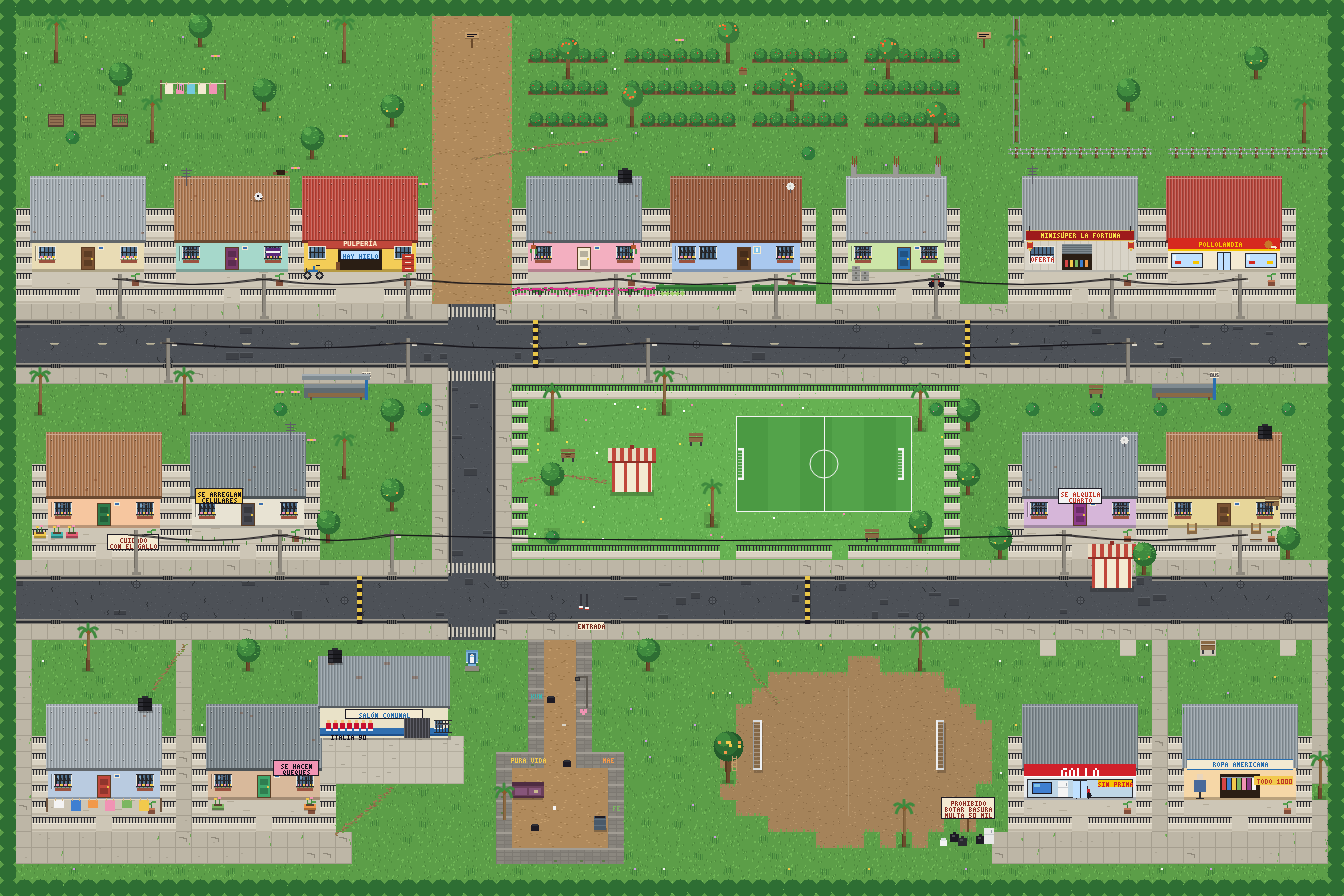
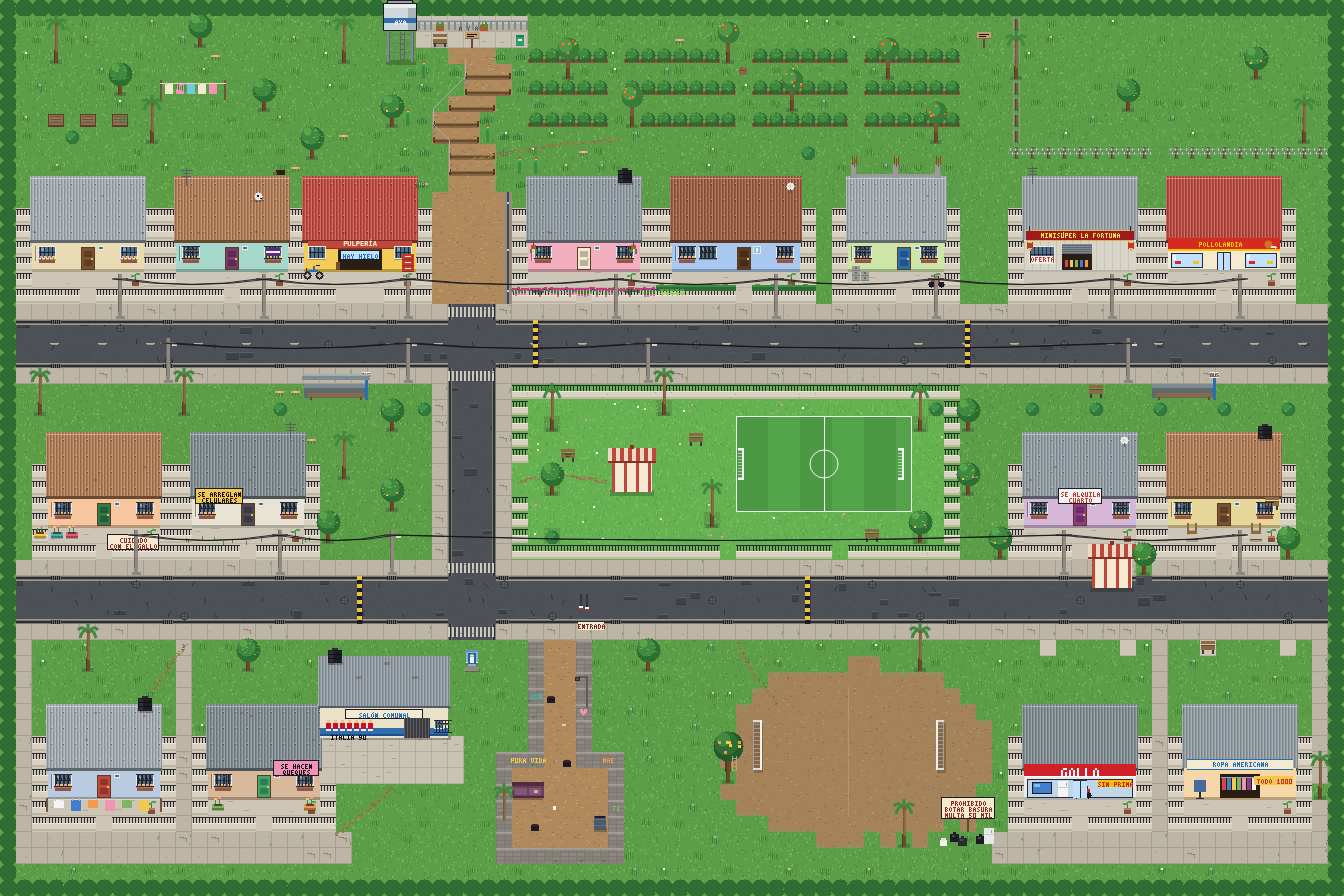
Trillo al mirador: subida con gradas, tanque del AyA y luciérnagas
- Camino sinuoso de 3 tiles entre monte, gradas de troncos y pasamanos
- Caño de concreto en el tramo entre casas
- Tanque del AyA como referencia visible desde la calle, con rincón para mirar
- Mirador con plataforma, baranda, banca y basurero
- Luciérnagas de noche y viento en la cima

Claude-Session: https://claude.ai/code/session_015uL8vQXmkc6XtRAtwtpQ6X

Changed region(s): [[0.2812, 0.0, 0.4062, 0.3438]]

diff --git a/Mi_Barrio.html b/Mi_Barrio.html
@@ -501,7 +501,7 @@ function drawTile(g,m,x,y){const t=ti(m,x,y),X=x*T,Y=y*T,r=(a,b)=>hsh(x*17+a,y*3
   case 1:drawRoad(g,m,x,y,X,Y,r);break;
   case 2:drawSidewalk(g,m,x,y,X,Y,r);break;
   case 16:side();R(g,'rgba(0,0,0,.25)',X+4,Y+12,9,3);R(g,'#8f8a80',X+6,Y+6,4,9);break;
-  case 6:R(g,'#b08a5c',X,Y,T,T);for(let i=0;i<6;i++)R(g,r(i,7)<.5?'#9c7749':'#c49d6c',X+((r(i,8)*15)|0),Y+((r(i,9)*15)|0),2,1);if(x===27||x===31)for(let i=0;i<4;i++)R(g,'#6fb556',X+(x===27?((r(i,2)*4)|0):12+((r(i,3)*4)|0)),Y+((r(i,4)*15)|0),1,2);break;
+  case 6:R(g,'#b08a5c',X,Y,T,T);for(let i=0;i<6;i++)R(g,r(i,7)<.5?'#9c7749':'#c49d6c',X+((r(i,8)*15)|0),Y+((r(i,9)*15)|0),2,1);{const gr=(a,b)=>{const v=ti(m,a,b);return v===0||v===5||v===7};if(gr(x-1,y))for(let i=0;i<5;i++)R(g,'#6fb556',X+((r(i,2)*4)|0),Y+((r(i,4)*15)|0),1,2);if(gr(x+1,y))for(let i=0;i<5;i++)R(g,'#6fb556',X+12+((r(i,3)*4)|0),Y+((r(i,5)*15)|0),1,2);if(r(6,6)<.2){R(g,'#8f8a80',X+((r(7,7)*11)|0)+2,Y+((r(8,8)*11)|0)+2,3,2);R(g,'#b3ad9e',X+((r(7,7)*11)|0)+2,Y+((r(8,8)*11)|0)+2,2,1)}}break;
   case 8:grass('#66b152','#5aa047','#78c262');if(r(5,5)<.18)R(g,pick2(r(6,6),['#f7e04b','#f28ab2','#ffffff']),X+((r(7,7)*13)|0)+1,Y+((r(8,8)*13)|0)+1,2,2);break;
   case 15:R(g,(x>>1)%2?'#4b9a43':'#53a34a',X,Y,T,T);break;
   case 14:R(g,'#cdc6b6',X,Y,T,T);R(g,'#bdb5a3',X,Y+T-1,T,1);if(r(1,2)<.35)R(g,'#b3ab99',X+3,Y+((r(2,1)*12)|0),((r(3,3)*8)|0)+2,1);break;
@@ -688,7 +688,7 @@ function drawBigMap(){const cvs=$('#bigmap');if(!cvs)return;if(curZone()!=='barr
  const txt=(t,x,y,sz,col)=>{g.font='bold '+sz+'px monospace';g.textAlign='center';g.textBaseline='middle';g.lineJoin='round';g.lineWidth=3;g.strokeStyle='#14101c';g.strokeText(t,x,y);g.fillStyle=col||'#f4ead2';g.fillText(t,x,y)};
  for(const b of BUILD){const nm=BM_NAMES[b.id]||(BM_OWN[b.id]?N(BM_OWN[b.id]).replace(/^(Don|Doña) /,''):null);if(!nm)continue;txt(nm,(b.x+b.w/2)*s,b.y*s-5,9,b.id==='casa_jugador'?'#f2c94c':b.id==='pulperia'?'#f7e04b':'#f4ead2')}
  txt('Parque',45.5*s,25.2*s,9,'#d8f0c8');txt('Cancha',51.5*s,32.4*s,8,'#d8f0c8');txt('Parada',21*s,24.8*s,8,'#bfe0ff');txt('Kiosco',39.5*s,31.6*s,8,'#ffd0c8');txt('Huerta',6*s,6.6*s,8,'#cfe6a8');
- txt('Calle Principal',9*s,21.6*s,8,'#e8c547');txt('Calle del Sur',9*s,37.6*s,8,'#e8c547');txt('Trillo',29.5*s,6*s,8,'#e0c8a0');txt('Parada Este',74*s,24.8*s,8,'#bfe0ff');txt('La entrada',34.5*s,45*s,8,'#f2994a');txt('Salón comunal',24*s,40.6*s,8,'#bfe0ff');txt('La plaza',52.5*s,42.4*s,8,'#e0c8a0');txt('Cafetal',46*s,1.6*s,8,'#cfe6a8');txt('Potrero',73*s,1.6*s,8,'#cfe6a8');txt('Alameda',11*s,54.4*s,8,'#e0c8a0');
+ txt('Calle Principal',9*s,21.6*s,8,'#e8c547');txt('Calle del Sur',9*s,37.6*s,8,'#e8c547');txt('Trillo',29.5*s,8.6*s,8,'#e0c8a0');txt('Mirador',29.5*s,3.4*s,8,'#ffe6a8');txt('Parada Este',74*s,24.8*s,8,'#bfe0ff');txt('La entrada',34.5*s,45*s,8,'#f2994a');txt('Salón comunal',24*s,40.6*s,8,'#bfe0ff');txt('La plaza',52.5*s,42.4*s,8,'#e0c8a0');txt('Cafetal',46*s,1.6*s,8,'#cfe6a8');txt('Potrero',73*s,1.6*s,8,'#cfe6a8');txt('Alameda',11*s,54.4*s,8,'#e0c8a0');
  const tg=mmTargets();for(const t of tg){const p=mmTo(t.mp,t.x,t.y,s);if(!p)continue;mmDot(g,p[0],p[1],t.c,t.r+1.6)}
  for(const id of['ariana','nicolas','matias','papa','mama','rosa']){const n=NPC[id],p=n&&mmTo(n.map,n.x,n.y,s);if(p)txt(N(id).replace(/^(Don|Doña) /,''),p[0],p[1]-9,8,'#fff')}
  const pp=mmTo(P.map,P.x,P.y,s);if(pp){g.save();g.translate(pp[0],pp[1]);g.scale(1.5,1.5);g.translate(-pp[0],-pp[1]);mmPlayer(g,pp[0],pp[1]);g.restore();txt('Vos',pp[0],pp[1]-14,9,'#fff')}}
@@ -5011,6 +5011,11 @@ const HOOD={casa_extra3:'Casa de los Solano',casa_extra4:'Casa de Doña Fela',ca
 // ---------- trazado: cafetal, potrero, salón comunal, gruta, plaza de tierra y alamedas ----------
 const SALON={x:20,y:41,w:8,h:5},GRUTA={x:29,y:41},LOTE={x0:41,x1:61,y0:41,y1:53},CANCHA={x0:47,x1:58,y0:43,y1:50};
 function vidaCarve(m){const W=m.w,S1=(x,y,t,s)=>setT(m,x,y,t,s);
+ // El trillo: entre las casas sigue ancho; arriba se angosta y serpentea hasta el mirador
+ for(let y=1;y<=11;y++)for(let x=26;x<=32;x++)if(ti(m,x,y)===6)S1(x,y,0,0);
+ for(let y=3;y<=11;y++){const c=TRILLO_CX[y];for(let x=c-1;x<=c+1;x++)S1(x,y,6,0)}
+ for(let x=26;x<=32;x++){S1(x,2,19,0);S1(x,1,19,1)}S1(26,2,19,1);S1(32,2,19,1);m.s[2*W+27]=1;
+ for(let y=2;y<=3;y++)for(let x=TANQUE.x;x<TANQUE.x+2;x++)S1(x,y,0,1);
  // Cafetal que sube hacia el mirador: hileras de matas con calles entre ellas
  for(const y of[3,5,7])for(let x=33;x<=59;x++){if([38,46,53].includes(x)||ti(m,x,y)===5)continue;S1(x,y,18,1)}
  // Potrero con cerca de alambre de púas y un portillo
@@ -5030,6 +5035,7 @@ function vidaCarve(m){const W=m.w,S1=(x,y,t,s)=>setT(m,x,y,t,s);
  for(const[x,y]of[[74,33],[78,33],[58,17]])m.s[y*W+x]=1;
  m.lights.push({x:GRUTA.x*T+8,y:GRUTA.y*T+10,r:30,candle:1},{x:36*T+10,y:44*T-24,r:58,broken:1});
 }
+const TRILLO_CX={3:29,4:30,5:30,6:29,7:28,8:28,9:29,10:29,11:29},TANQUE={x:24,y:2};
 const PORO=(x,y)=>x>=32&&x<=62&&y>=1&&y<=9,MANGO_LOTE=[45,48];
 
 // ---------- tiles nuevos ----------
@@ -5123,7 +5129,22 @@ function houseTop(tg,b){const X=b.x*T,Y=b.y*T,W=b.w*T,id=b.id;
 // ---------- lugares nuevos ----------
 function trillo(g,pts,w=6){for(let k=0;k<pts.length-1;k++){const[x0,y0]=pts[k],[x1,y1]=pts[k+1],L=Math.hypot(x1-x0,y1-y0)*T;for(let i=0;i<L;i+=2){const t=i/L,X=(x0+(x1-x0)*t)*T+8,Y=(y0+(y1-y0)*t)*T+8;
  for(let j=0;j<3;j++){const h=hsh(Math.round(X)+j*7,Math.round(Y)),ox=(h-.5)*w,oy=(hsh(Math.round(Y),j)-.5)*w*.6;R(g,h<.4?'#9c7a52':h<.75?'#8a6c47':'#7a9a4a',Math.round(X+ox),Math.round(Y+oy),2,1)}}}}
-function vidaBase(g){
+function trilloBase(g){const ext=MAPS.ext;
+ // monte a los lados: helechos y platanillos
+ for(let y=3;y<=11;y++)for(let x=25;x<=33;x++){if(ti(ext,x,y)!==0||ext.s[y*ext.w+x])continue;const h=hsh(x*11,y*7);if(h<.45){const X=x*T+((h*20)|0)%8,Y=y*T+12;for(let i=-2;i<=2;i++){R(g,'#2f7a3a',X+4+i*2,Y-6+Math.abs(i),1,6-Math.abs(i));R(g,'#3f9447',X+4+i*3,Y-7+Math.abs(i)*2,2,1)}}
+  else if(h<.6){const X=x*T+6,Y=y*T+14;R(g,'#3d8a3f',X,Y-12,3,12);R(g,'#4fa64c',X-4,Y-14,4,7);R(g,'#4fa64c',X+3,Y-16,4,8);R(g,'#d6453c',X+1,Y-17,2,3);R(g,'#f2c94c',X+1,Y-15,2,1)}}
+ // gradas de troncos con estacas donde se empina, y un pasamanos de tubo
+ for(let y=4;y<=10;y++){const c=TRILLO_CX[y],X=(c-1)*T+2,Y=y*T+12,W=3*T-4;R(g,'rgba(0,0,0,.25)',X,Y+2,W,2);R(g,'#6b4a2b',X,Y-1,W,3);R(g,'#8a6a45',X,Y-1,W,1);R(g,'#5a3a22',X-1,Y-3,2,6);R(g,'#5a3a22',X+W-1,Y-3,2,6);if(y%2)R(g,'#8f8a80',X+W/2,Y-6,4,2)}
+ for(let y=4;y<=10;y++){const c=TRILLO_CX[y],X=(c-1)*T+1,Y=y*T;R(g,'#7f8a90',X,Y-2,1,8);R(g,'rgba(0,0,0,.2)',X+1,Y+5,2,1);const n=TRILLO_CX[y+1]||c;R(g,'#a8b0b5',X,Y-4,1,1);if(n===c)R(g,'#a8b0b5',X,Y-4,1,T);else{for(let i=0;i<T;i++)R(g,'#a8b0b5',X+Math.round((n-c)*T*i/T),Y-4+i,1,1)}}
+ // caño de concreto que baja junto al trillo entre las casas
+ for(let y=12;y<=18;y++){const X=31*T+9;R(g,'#8d8a83',X,y*T,6,T);R(g,'#3a4a5e',X+2,y*T,2,T);if(y%3===0)R(g,'#9fd8f0',X+2,y*T+((hsh(y,3)*12)|0),2,2)}
+ // mirador: baranda, macetas, banca de espaldas al barrio y nombres rayados
+ {const Y=1*T,X0=26*T,X1=33*T;R(g,'#b3ad9e',X0,Y+8,X1-X0,8);R(g,'#7f8a90',X0,Y+4,X1-X0,2);for(let x=X0+2;x<X1;x+=6)R(g,'#7f8a90',x,Y+4,2,10);R(g,'#a8b0b5',X0,Y+4,X1-X0,1);
+  for(const[x,c]of[[X0+20,'#f193b4'],[X0+64,'#f2c94c']]){R(g,'#b5562f',x,Y+9,8,6);disc(g,'#3d9447',x+4,Y+8,3);R(g,c,x+3,Y+6,2,2)}
+  cText(g,(N('ariana')[0]||'A')+' Y '+(N('player')[0]||'A'),X0+52,Y+9,4,'#5d5d66');
+  const bx=27*T,by=2*T;R(g,'rgba(0,0,0,.2)',bx+1,by+12,14,3);R(g,'#8a6a45',bx+1,by+2,14,3);R(g,'#8a6a45',bx+1,by+7,14,4);R(g,'#6b4a2b',bx+1,by+11,14,1);R(g,'#3a3a40',bx+2,by+11,2,4);R(g,'#3a3a40',bx+12,by+11,2,4);
+  const tx=32*T;R(g,'#2e9e6b',tx+4,2*T+3,8,11);R(g,'#1f7a50',tx+4,2*T+3,8,2);R(g,'#f4f4f4',tx+6,2*T+7,4,2)}}
+function vidaBase(g){trilloBase(g);
  // zacate alto en los bordes del barrio, donde ya casi nadie pasa
  const ext=MAPS.ext;for(let y=1;y<ext.h-1;y++)for(let x=1;x<ext.w-1;x++){if(ti(ext,x,y)!==0||ext.s[y*ext.w+x]||!(y>=40||y<=10)||hsh(x*3,y*5)>.22)continue;const X=x*T+((hsh(x,y*2)*8)|0),Y=y*T+10;for(let i=0;i<5;i++){R(g,i%2?'#3f7d38':'#4b8f40',X+i*2,Y-4-((hsh(i,x+y)*3)|0),1,5+((hsh(x+i,y)*2)|0))}if(hsh(y,x*7)<.3)R(g,pick2(hsh(x,y*9),['#f2c94c','#f4f4f4','#c99be0']),X+4,Y-6,2,2)}
  // trillos: los caminos que hace la gente al cortar camino
@@ -5158,7 +5179,12 @@ function vidaBase(g){
  // la banca del parque con iniciales
  R(g,'#5c3d24',35*T+5,28*T+6,6,1);R(g,'#5c3d24',35*T+6,28*T+8,4,1)
 }
-function vidaTop(tg){for(const b of BUILD)houseTop(tg,b);
+function tanqueAyA(tg){const X=TANQUE.x*T,Y=(TANQUE.y+2)*T;R(tg,'rgba(0,0,0,.22)',X+2,Y-4,30,5);
+ for(const lx of[X+3,X+27]){R(tg,'#7f8a90',lx,Y-34,3,32);R(tg,'#5d666c',lx+2,Y-34,1,32)}for(let i=0;i<3;i++){R(tg,'#6d767c',X+5,Y-12-i*9,22,1)}
+ for(let i=0;i<6;i++)R(tg,'#5d666c',X+16,Y-30+i*5,5,1);R(tg,'#5d666c',X+16,Y-32,1,30);R(tg,'#5d666c',X+20,Y-32,1,30);
+ R(tg,'#1d1a24',X-1,Y-61,34,28);R(tg,'#cfd8dc',X,Y-60,32,26);R(tg,'#e8eef0',X,Y-60,32,4);R(tg,'#aab4b9',X+24,Y-56,8,22);R(tg,'#2f6fb0',X,Y-46,32,5);cText(tg,'AYA',X+16,Y-45,4,'#f4f4f4');
+ R(tg,'#1d1a24',X+3,Y-64,26,4);R(tg,'#9aa3a8',X+4,Y-63,24,2);R(tg,'#c0392b',X+15,Y-68,2,4)}
+function vidaTop(tg){for(const b of BUILD)houseTop(tg,b);tanqueAyA(tg);
  // salón: tanque negro y antena
  tanque(tg,SALON.x*T+8,SALON.y*T-6);
  // tenis colgando: los cordones
@@ -5172,6 +5198,7 @@ function treeTop(tg,x,y){const X=x*T,Y=y*T;
 // ---------- minimapa ----------
 function vidaMini(g,s,q){const R2=(c,x,y,w,h)=>R(g,c,Math.round(x*s),Math.round(y*s),Math.max(1,Math.round(w*s)),Math.max(1,Math.round(h*s)));
  R2('#8f9aa1',SALON.x,SALON.y,SALON.w,SALON.h-1.6);R2('#e9e2c8',SALON.x,SALON.y+SALON.h-1.6,SALON.w,1.6);R2('#2f6fb0',SALON.x,SALON.y+SALON.h-.5,SALON.w,.5);
+ R2('#cfd8dc',TANQUE.x,TANQUE.y,2,1.4);R2('#2f6fb0',TANQUE.x,TANQUE.y+.9,2,.3);R2('#7f8a90',26,1.4,7,.2);
  R2('#7fb4dc',GRUTA.x+.15,GRUTA.y-.2,.7,1);R2('#f4f4f4',60,51,.4,.6)}
 function vidaMiniTile(g,x,y,t,q,spk,dens){if(t===17){spk(x,y,'#a5835a','#8f6f49','#b8956a',dens);return true}if(t===18){spk(x,y,'#5c9e48','#2f6b34','#3e8a3f',dens);q('#2f6b34',x+.1,y+.1,.8,.6);return true}
  if(t===19){q('#c9c3b4',x,y,1,1);return true}if(t===21){spk(x,y,'#5c9e48','#4f8c3e','#6fb556',dens);q('#7a5a36',x+.4,y+.2,.25,.7);return true}return false}
@@ -5311,6 +5338,8 @@ function vidaPunch(lc,cx,cy,a){if(!WINS)vidaWins();const h=hrs(),s=Z/4;
  for(const w of WINS){if(!winOn(w,h))continue;const X=(w.x+w.w/2-cx)*s,Y=(w.y+w.h+6-cy)*s,r=(18+w.w*.6)*s;lc.drawImage(LSPR,X-r,Y-r,r*2,r*2)}
  if(VCUR.bingo){const X=(SALON.x*T+64-cx)*s,Y=(47*T-cy)*s,r=80*s;lc.drawImage(LSPR,X-r,Y-r,r*2,r*2)}}
 function vidaWinGlow(g,cx,cy,a){if(!WINS)vidaWins();const h=hrs();g.save();g.globalCompositeOperation='lighter';
+ if(!S.rain&&(h>=19||h<4.5))for(let i=0;i<16;i++){const t=qBlink*.35+i*7.1,wx=(25.5+hsh(i,5)*8+Math.sin(t)*1.2)*T,wy=(3+hsh(5,i)*9+Math.cos(t*.8)*.8)*T-10,on=Math.sin(qBlink*2.2+i*2.7);if(on<.2)continue;const X=(wx-cx)*Z,Y=(wy-cy)*Z;if(X<-20||Y<-20||X>VW+20||Y>VH+20)continue;
+  g.globalAlpha=Math.min(1,on)*a;const r=5*Z;g.drawImage(glow,X-r,Y-r,r*2,r*2);g.fillStyle='#e6ff8a';g.fillRect(X-Z/2,Y-Z/2,Z,Z)}g.globalAlpha=1;
  for(const w of WINS){if(!winOn(w,h))continue;const X=(w.x-cx)*Z,Y=(w.y-cy)*Z;if(X>VW||Y>VH||X+w.w*Z<0||Y+w.h*Z<0)continue;
   let col='255,170,80',al=a*.6;if(w.tv){const f=Math.sin(qBlink*13+w.seed*9)+Math.sin(qBlink*5.1);col=f>.4?'120,170,255':'90,130,230';al=a*(.55+.25*Math.abs(f)/2)}
   g.fillStyle='rgba('+col+','+al.toFixed(3)+')';g.fillRect(X,Y,w.w*Z,w.h*Z)}
@@ -5338,6 +5367,7 @@ function rainLoop(){if(!AC)return;const want=OPT.sound&&S&&S.rain>0&&curZone()==
  const inside=MAPS[P.map].interior,ff=inside?700:1500;if(Math.abs(RAINS.v-want)>.002||RAINS.ff!==ff){RAINS.v=want;RAINS.ff=ff;RAINS.g.gain.setTargetAtTime(Math.max(.0001,want),AC.currentTime,.8);RAINS.f.frequency.setTargetAtTime(ff,AC.currentTime,.3)}}
 function barrioSoundscape(){if(!OPT.sound)return 3;const h=hrs();
  if(S.rain){beep(rnd(200,900),.03,'triangle',.006);return .25}
+ if(P.y<5*T&&P.x>24*T&&P.x<34*T&&Math.random()<.5){sNoise(rnd(2.5,4),rnd(300,500),.7,.03,'lowpass',1.2);return rnd(3,5)}
  if(h>=4.8&&h<6.2&&Math.random()<.35){sndGallo();return rnd(6,12)}
  if(h>=5&&h<8.5){if(Math.random()<.6)sndYiguirro();return rnd(2.5,5)}
  if(h>=10&&h<15.5&&Math.random()<.45){sndChicharra();return rnd(4,8)}
@@ -5353,6 +5383,7 @@ ACT_POINTS.push(
  {map:'ext',x:54,y:17,label:'Mirar el segundo piso',run(){say(null,'Las varillas del segundo piso apuntan al cielo, oxidadas. En una lata de pintura alguien escribió la fecha con marcador. Ya no se lee el año.')}},
  {map:'ext',x:22,y:46,label:'Mirar el mural',run(){say(null,'Un mural despintado: camisetas rojas, brazos arriba y «ITALIA 90». A uno de los jugadores alguien le agregó bigote con marcador.')}},
  {map:'ext',x:59,y:52,label:'Leer el rótulo',run(){say(null,'«PROHIBIDO BOTAR BASURA · MULTA ₡50 000». Al pie del rótulo: bolsas, una refri vieja y un inodoro. La ironía también es comunitaria.')}},
+ {map:'ext',x:24,y:4,label:'Mirar el tanque',run(){say(null,'En una pata del tanque hay rayas hechas con navaja y nombres al lado: las alturas de los chiquitos del barrio, medidas cada diciembre. La raya más alta dice «Matías, 15». La más baja todavía no tiene nombre.')}},
  {map:'ext',x:46,y:5,label:'Mirar el canasto',run(){say(null,'Un canasto de coger café amarrado a una rama. En diciembre esto se llena de recolectores; ahora solo quedan los granos que se pasaron de maduros.')}},
  {map:'ext',x:31,y:28,label:'Comprar un copo',cond:()=>!!VCUR.copos,run(){const c=VCUR.copos[0].c;say(c,'¿De qué lo quiere? El de leche en polvo es el que más sale.',[
   {t:'Copo con leche y sirope (₡600)',f(){zBuy(600,()=>{enAdd(12);say(null,'Hielo raspado, sirope rojo, leche condensada y leche en polvo encima. Se te congela el cerebro. +12⚡')})}},

diff --git a/docs/barrio-direccion-creativa.md b/docs/barrio-direccion-creativa.md
@@ -94,6 +94,14 @@ Reglas que se siguieron para que no fuera una colección de añadidos:
   - el rótulo de la basura;
   - el canasto del cafetal.
 
+### El trillo al mirador
+Antes era un rectángulo de tierra de 5 tiles que subía recto hasta un letrero: no se sentía como subir a ningún lado. Ahora (`docs/img/trillo_antes.png` → `trillo_despues.png`, `trillo_noche.png`):
+- **Subida que serpentea**: 3 tiles de ancho entre helechos y platanillos, con **gradas de troncos y estacas** y un **pasamanos de tubo** en la parte empinada; entre las casas sigue ancho y un **caño** baja junto al camino.
+- **Tanque del AyA** junto a la cima: se ve desde la calle principal y marca el rumbo sin flechas. En la pata, las alturas de los chiquitos del barrio medidas cada diciembre (rincón «Mirar el tanque»).
+- **El mirador** como lugar de llegada: plataforma, baranda con macetas, banca de espaldas al barrio, basurero y unas iniciales rayadas en la baranda.
+- **Luciérnagas** a lo largo de la subida de noche (no salen si llueve) y **viento** en la cima.
+- Se conservan el letrero que abre la vista, el Cadejos y las huellas de Firulais.
+
 ### Fuera de alcance (ideas siguientes, no implementadas)
 - **Cimarrona y mascarada los domingos:** es el gran acontecimiento pendiente; necesita arte de mascarada propio.
 - Tamales los viernes y camión de la basura, que requieren un calendario semanal más completo.
